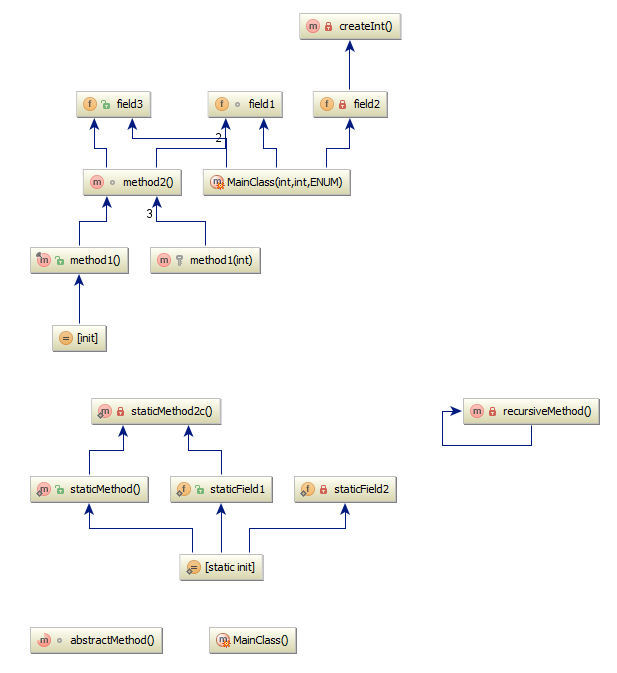
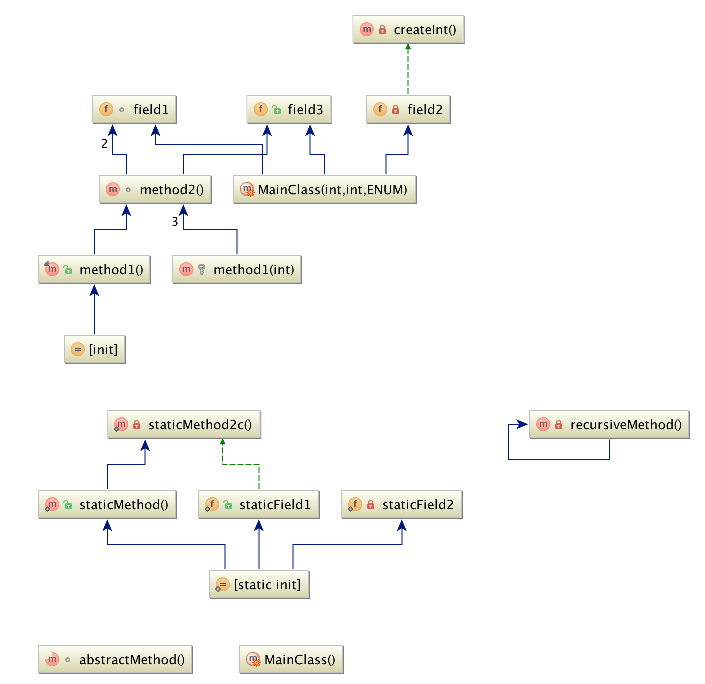
edges from fields are dashed and green

diff --git a/src/ch/docksnet/rgraph/ReferenceDiagramDataModel.java b/src/ch/docksnet/rgraph/ReferenceDiagramDataModel.java
@@ -135,7 +135,7 @@ public class ReferenceDiagramDataModel extends DiagramDataModel<PsiElement> {
     public DiagramEdge<PsiElement> addEdge(final @NotNull DiagramNode<PsiElement> from, final @NotNull DiagramNode<PsiElement> to,
             Long value) {
         final DiagramRelationshipInfo relationship;
-        if (from instanceof PsiField) {
+        if (from.getIdentifyingElement() instanceof PsiField) {
             relationship = createEdgeFromField();
         } else {
             relationship = createEdgeFromNonField(value == null ? 0 : value);
